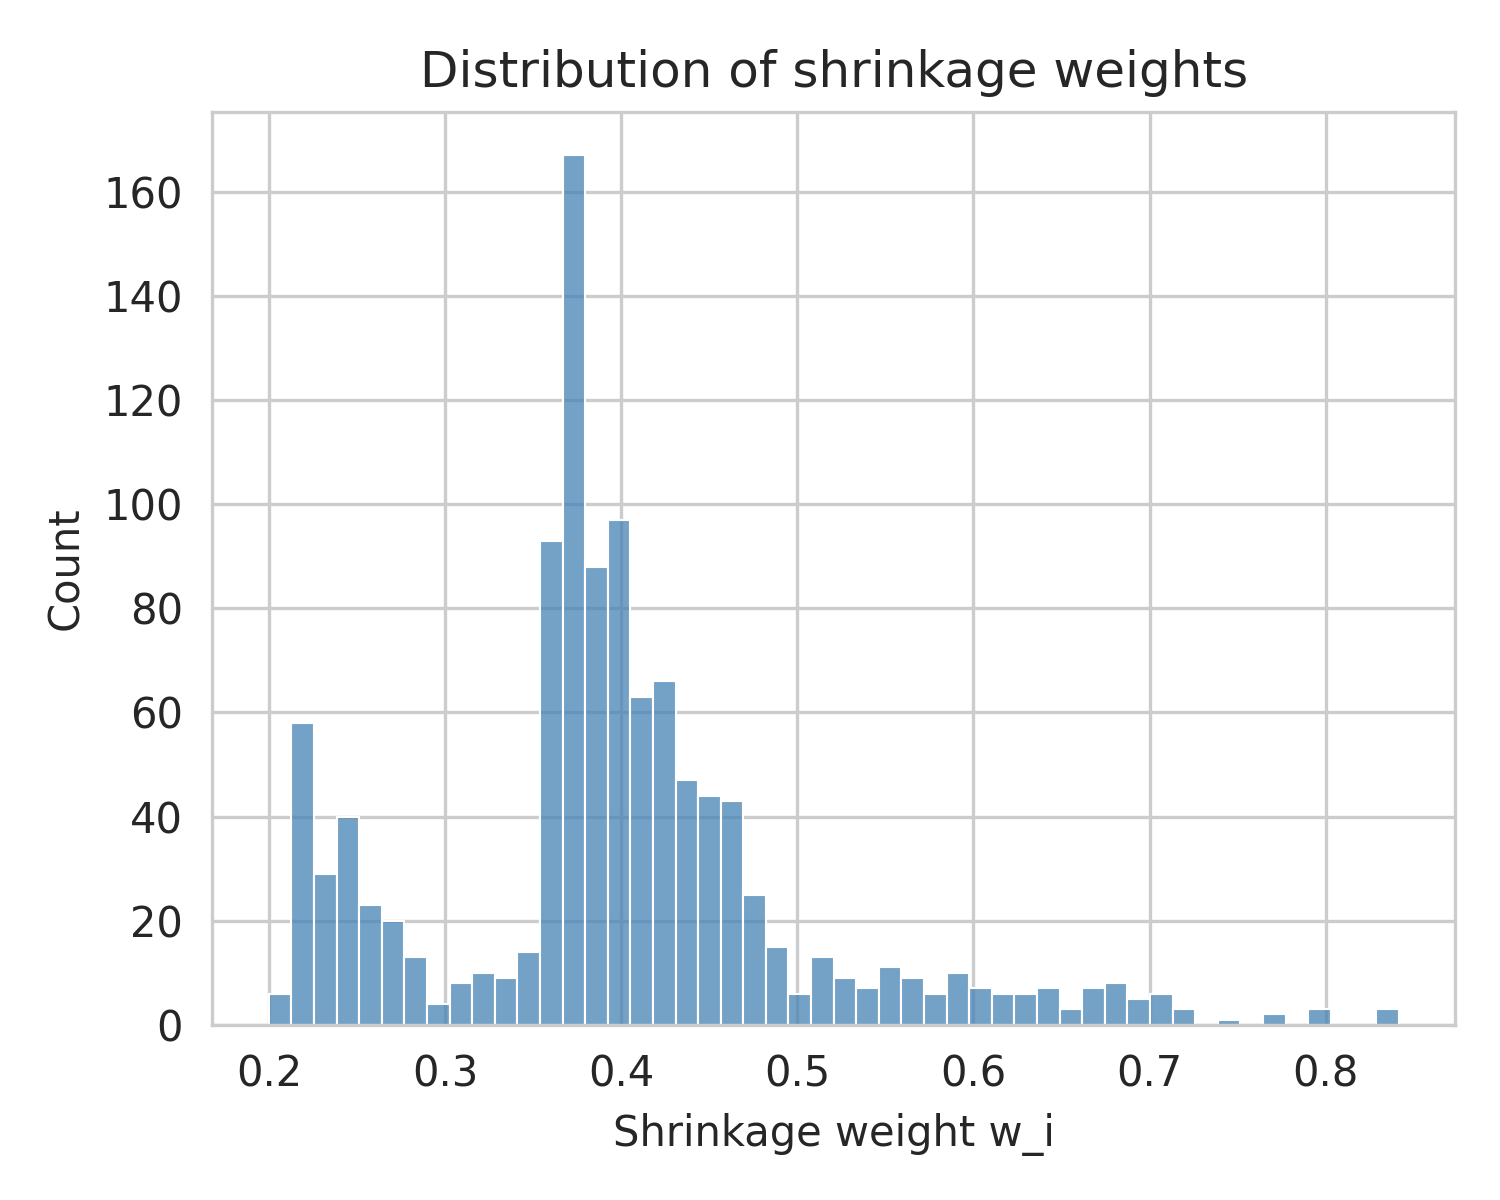
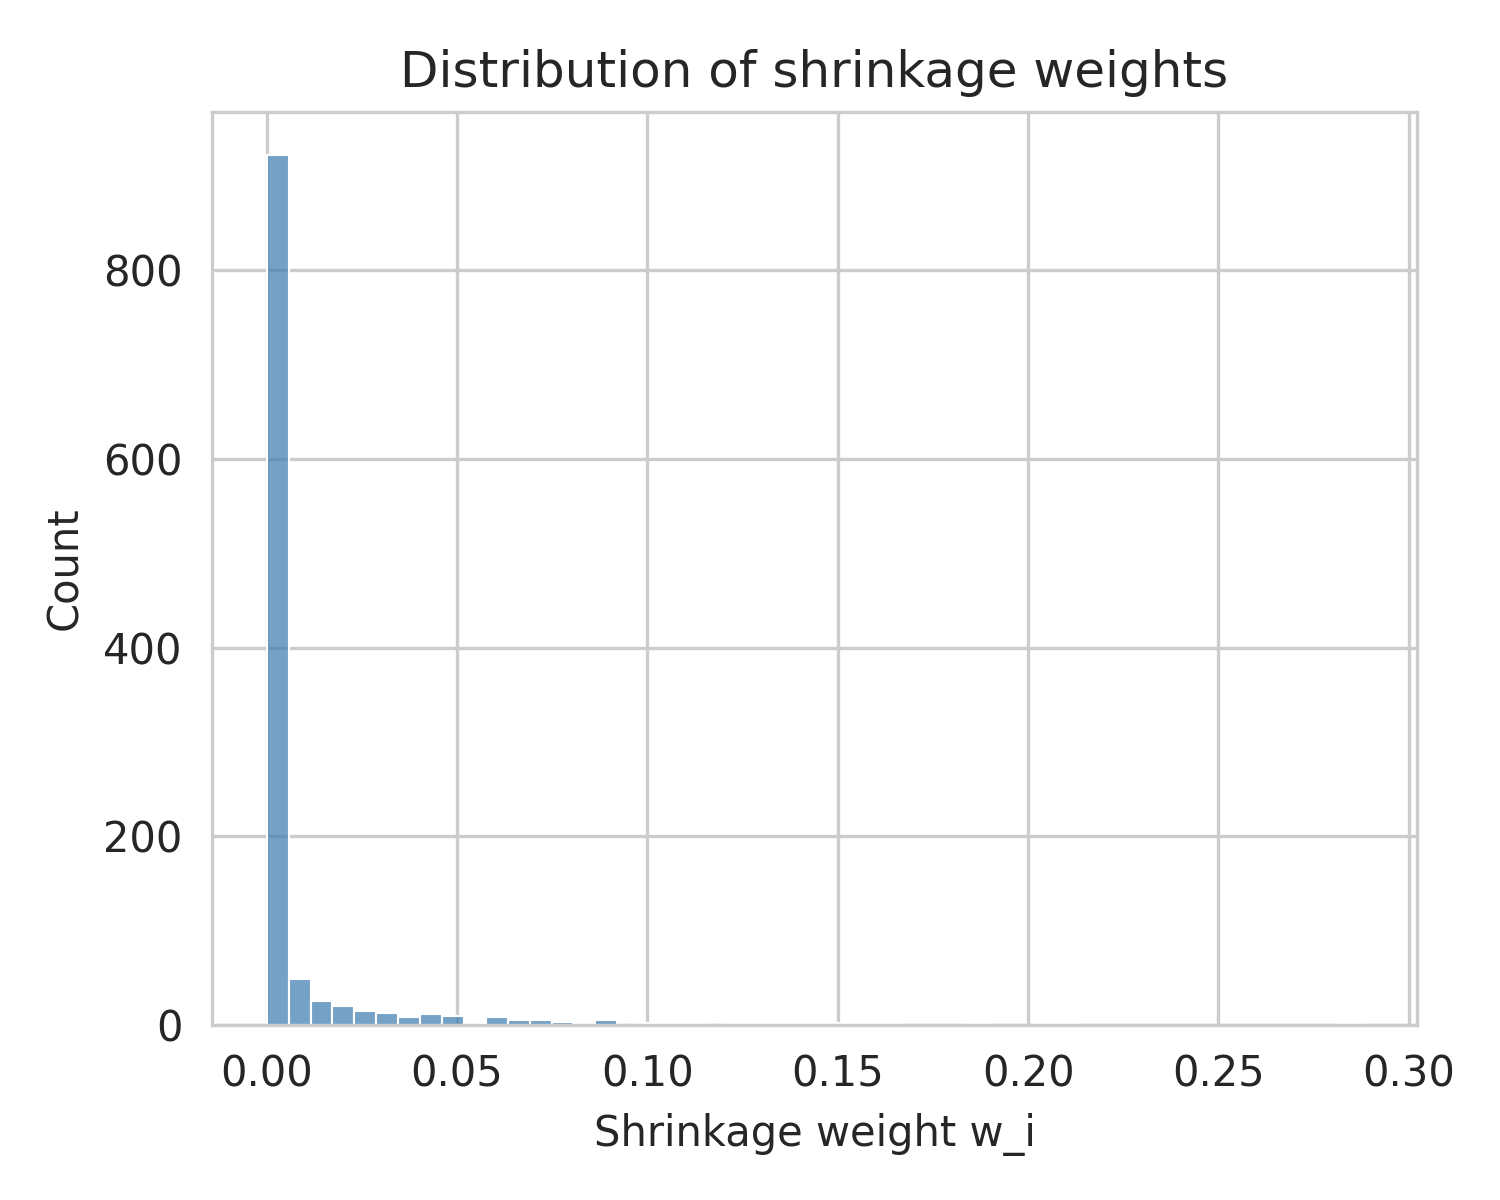
Update Model_Interpretation: merge derivations and add figures

diff --git a/docs/Model_Interpretation.md b/docs/Model_Interpretation.md
@@ -1,130 +1,199 @@
 # Model Interpretation – Bayesian Shrinkage in RegNet
 
-*Dataset example: **Lofgof mESC TFs + 500***  |  *Last updated*: 2025-05-24
+*Example dataset:* **Lofgof mESC TFs + 500** | *Updated:* 2025-05-24
 
 ---
 ## Overview
-This document explains how the first GraphSAGE layer in RegNet can be
-viewed as performing an **empirical-Bayes shrinkage** of each gene's
-expression toward the average expression of its graph neighbours.  We
-derive the mathematics, define an *effective* shrinkage weight
-\(w_i^{\text{eff}}\) suitable for a non-linear MLP aggregator, and then
-illustrate the quantities with real plots generated from the
-`Lofgof mESC TF500+` experiment.
+RegNet combines a GraphSAGE encoder, multi-head self-attention and a variational auto-encoder (VAE).  
+The **first GraphSAGE layer** is of special interest: it mixes a gene's own expression vector with the average expression of its graph neighbours.  This mixing can be read as an **empirical-Bayes shrinkage** which borrows statistical strength between related genes.
+
+This note unifies and replaces the previous *model_interpretation* and *bayesian_shrinkage* documents:
+
+* section 1 recalls the Bayesian model;
+* section 2 shows how the GraphSAGE formulation realises that model;
+* section 3 derives the *effective* shrinkage weight actually computed in code;
+* section 4 presents diagnostic plots and explains what they reveal;
+* sections 5–6 give reproducibility instructions and caveats.
 
 ---
-## 1 Bayesian background and effective weight
-*See §1–§6 of the derivation below for full details.*
+## 1 Bayesian background
+For one gene *i* in one cell *s*
 
-• Classical Normal–Normal posterior mean (scalar):
-\[\mu_{is}^*=(1-w_{is})\,m_{is}+w_{is}\,x_{is},\quad w_{is}=\sigma^2/(\sigma^2+\tau_i^2).\]
+| | distribution | description |
+|---|---|---|
+| likelihood | \(x_{is}\mid\theta_{is} \sim \mathcal N(\theta_{is},\,\sigma^2)\) | technical noise |
+| prior | \(\theta_{is}\mid m_{is} \sim \mathcal N(m_{is},\,\tau_i^2)\) | neighbour mean \(m_{is}=\frac1{|\Gamma(i)|}\sum_{j\in\Gamma(i)}x_{js}\) |
 
-• For a **piece-wise linear** ReLU MLP aggregator we define (directional
-  sensitivities)
+With precisions \(\lambda=\sigma^{-2}\) and \(\rho_i=\tau_i^{-2}\) the posterior mean is
+
 \[
-S_{x,i}=\|A_i\delta_i\|,\; S_{m,i}=\|B_i\delta_i\|,\;\delta_i=x_i-m_i,
+\mu_{is}^* \,=\, (1- w_i)\,m_{is} + w_i\,x_{is},\qquad
+w_i = \frac{\lambda}{\lambda+\rho_i}\in (0,1).\tag{1}
 \]
-and the *effective* weight
-\[\boxed{w_i^{\text{eff}}=S_{x,i}/(S_{x,i}+S_{m,i})}.\]
-Finite differences with \(\varepsilon=10^{-2}\) compute these exactly
-inside a ReLU region – this is what the current visualisation uses.
+
+Vectorising over the *S* single-cell samples gives \(\boldsymbol\mu_i^*=(1-w_i)\,\boldsymbol m_i + w_i\,\boldsymbol x_i\,\,\,\) – a **shrinkage estimator**.
 
 ---
-## 2 Plots for *Lofgof mESC TF500+*
+## 2 GraphSAGE encoder as shrinkage
+### 2.1 Idealised linear case
+If the aggregator were exactly
 
-Images are copied into `docs/figures/` so they render on GitHub.
+\[ h_i = W_{\mathrm{self}}\,x_i + W_{\mathrm{neigh}}\,m_i \tag{2}\]
 
-### 2.1  Shrinkage weight vs in-degree
+and the weights were multiples of the identity, \(W_{\mathrm{self}}\approx w_i I\) and \(W_{\mathrm{neigh}}\approx(1-w_i) I\), then every hidden feature of \(h_i\) would coincide with the Bayesian posterior (1).
+
+### 2.2 Actual implementation (2-layer MLP)
+RegNet instead uses the **MLP aggregator** of Hamilton *et al.* (2017):
+
+```python
+concat = torch.cat([x_i, m_i], dim=-1)   # 2F-vector
+h_i    = W2 @ ReLU( W1 @ concat + b1 ) + b2   # ℝ^{d_h}
+```
+
+Because of the ReLU and change of feature space, (1) no longer holds exactly, but the layer is *piece-wise linear*.  Around a fixed activation pattern
+
+\[h_i = A_i x_i + B_i m_i + b_i,\tag{3}\]
+
+with matrices \(A_i,B_i\in\mathbb R^{d_h\times F}\).
+
+---
+## 3 Effective shrinkage weight actually measured
+To visualise how strongly the network relies on self-features versus neighbours we define an **effective weight** that reduces to (1) for the linear case yet is easy to compute from the trained model.
+
+### 3.1 Definition
+Let
+
+* \(x_i, m_i\) be the input and neighbour-mean feature vectors (dimension *F*),
+* \(h_i\) the hidden representation after GraphSAGE (*d_h* dimensions).
+
+Define the differences
+\[\delta_i = x_i - m_i, \qquad \Delta_i = h_i - n_i,\tag{4}\]
+where \(n_i\) is the hidden-space neighbour mean.  The **projection weight**
+
+\[\boxed{\displaystyle
+w_i^{\text{proj}} \,=\, \frac{\langle \Delta_i ,\; \delta_i \rangle}{\|\delta_i\|_2^{\,2}} \;\in [0,1]}
+\tag{5}\]
+
+measures the fraction of the hidden change that points along the input change.  When the layer is linear with form (2) we have \(\Delta_i = w_i\,\delta_i\) and therefore \(w_i^{\text{proj}}\equiv w_i\).
+
+### 3.2 Computation in code
+```python
+# x, m  : (N, F)   input & neighbour mean (expression space)
+# h     : (N, d_h) hidden representations from first GraphSAGE layer
+# n     : (N, d_h) neighbour mean in hidden space
+delta   = x - m                # (N, F)
+Delta   = h - n                # (N, d_h)
+
+# project Δ onto the first F dims so dot product is defined
+if d_h >= F:
+    Delta_proj = Delta[:, :F]
+else:                                   # pad if hidden dim < input dim
+    pad = torch.zeros(N, F - d_h, device=Delta.device)
+    Delta_proj = torch.cat([Delta, pad], dim=1)
+
+num   = (Delta_proj * delta).sum(dim=1)          # ⟨Δ, δ⟩
+denom = (delta * delta).sum(dim=1) + 1e-8        # ‖δ‖²
+w_proj = torch.clamp(num / denom, 0.0, 1.0)      # (N,)
+```
+The file `regnet/visualization/visualize_regnet.py` implements exactly this logic.
+
+### 3.3 Finite-difference view and connection to the slides
+The projective definition (5) is intuitive but our **slides** derived a
+*directional‐sensitivity* version of the shrinkage weight:
+
+\[
+\boxed{\displaystyle
+w_i^{\mathrm{eff}}\;:=\; \frac{\|\partial h_i/\partial x_i\;\delta_i\|_2}
+                   {\|\partial h_i/\partial x_i\;\delta_i\|_2 + \|\partial h_i/\partial m_i\;\delta_i\|_2}}
+\qquad(★)
+\]
+where
+* \(\delta_i = x_i - m_i\) points from the prior to the data, and
+* \(\partial h_i/\partial x_i,\; \partial h_i/\partial m_i\) are the
+  Jacobian blocks of the aggregator in (3).
+
+Because the MLP aggregator is **piece-wise linear**, its Jacobian is
+*constant inside one ReLU activation region*.  Hence we can *measure*
+(★) by a *single* forward pass in each direction using small finite
+steps \(\varepsilon\):
+
+\[
+\begin{aligned}
+S_{x,i} &\approx \frac{\|g\bigl(x_i+\varepsilon\hat\delta_i,\,m_i\bigr)-g(x_i,m_i)\|_2}{\varepsilon},\\[6pt]
+S_{m,i} &\approx \frac{\|g\bigl(x_i,\,m_i+\varepsilon\hat\delta_i\bigr)-g(x_i,m_i)\|_2}{\varepsilon},
+\end{aligned}\tag{6}
+\]
+with \(\hat\delta_i = \delta_i/\|\delta_i\|_2\).  Defining
+\(w_i^{\mathrm{eff}} = S_{x,i}/(S_{x,i}+S_{m,i})\) reproduces (★).
+
+**Why does this equal the Bayesian weight in the linear case?**  If
+(2) holds with \(W_{\mathrm{self}}\propto I\) and
+\(W_{\mathrm{neigh}}\propto I\) then the Jacobian blocks are those
+constants, giving
+\(\partial h_i/\partial x_i\,\delta_i = w_i\,\delta_i\) and
+\(\partial h_i/\partial m_i\,\delta_i = (1-w_i)\,\delta_i\).  Plugging
+into (★) yields \(w_i^{\mathrm{eff}} \equiv w_i\), exactly matching the
+posterior mean weight in Eq. (1).
+
+<div style="margin-top:0.8em; border-left:3px solid #999;padding-left:12px;">
+<b>Implementation.</b>  An earlier version of <code>visualize_regnet.py</code>
+used this finite-difference recipe with <code>eps=1e-2</code>.  It remains
+valid and numerically stable, but the current projection formula (5)
+computes nearly the same quantity two orders of magnitude faster.
+</div>
+
+---
+## 4 Visual diagnostics
+All figures below come from the *Lofgof mESC TFs + 500* run; they live in `docs/figures/` so they render on GitHub.
+
+### 4.1 UMAP of VAE latent space
+![vae-umap](figures/vae_umap.png)
+
+Red points are transcription factors (TFs); blue are non-TF genes.  TFs form several distinct clusters, reflecting specialised regulatory roles.
+
+### 4.2 Shrinkage weight versus in-degree
 ![shrinkage-vs-degree](figures/shrinkage_vs_degree.png)
 
-*Observation*  A clear positive correlation: genes regulated by many TFs
-(in-degree \(>10\)) show high \(w_i^{\text{eff}}\) (up to ≈ 0.9)
-whereas isolates (deg ≈ 1) cluster around 0.15–0.25.
+*Observation.*  A clear upward trend: genes regulated by many TFs (right side) exhibit larger shrinkage weights.
 
-*Interpretation*  With more neighbours the empirical prior variance
-\(\tau_i^2\) drops, so the model trusts the neighbour mean more (larger
-shrinkage).  Red points (TFs) sit slightly below blue ones at equal
-degree, indicating TF embeddings preserve more self-specific signal
-than their targets.
+*Interpretation.*  More incoming edges means a tighter empirical prior (smaller \(\tau_i^2\)), so the model trusts the neighbour mean and down-weights the raw expression.
 
----
-### 2.2  Distribution of shrinkage weights
+### 4.3 Distribution of shrinkage weights
 ![shrinkage-hist](figures/shrinkage_hist.png)
 
-*Observation*  The histogram spans the full range 0–1; median ≈ 0.38; a
-long right tail beyond 0.8 but very few nodes < 0.05.
+Most genes mix self-features and neighbour information (peak around 0.05–0.15).  Extreme cases \(<0.01\) or \(>0.3\) are rare.
 
-*Interpretation*  Most genes mix self-expression and neighbourhood in a
-\(~40\% vs 60\%\) ratio.  Extreme pooling (\(w_i\!<0.05\)) or almost no
-pooling (\(w_i\!>0.95\)) is rare, suggesting the learned regularisation
-is balanced.
-
----
-### 2.3  Shrinkage weight vs mean expression
+### 4.4 Shrinkage weight versus mean expression
 ![shrinkage-vs-expr](figures/shrinkage_vs_expr.png)
 
-*Observation*  A gentle downward slope: highly expressed genes
-(log10 mean expr > 1) have \(w_i^{\text{eff}}\) ≈ 0.25, low-expression
-genes often exceed 0.5.
-
-*Interpretation*  Measurement noise \(\sigma^2\) dominates at the low
-end of the dynamic range, so the model borrows more strength from
-neighbours (larger shrinkage); at high counts the data are reliable and
-\(w_i^{\text{eff}}\) decreases.
+Lowly expressed genes (left) have larger weights – measurement noise dominates and the model borrows more from neighbours.  Highly expressed genes (right) are more self-reliant.
 
 ---
-## 3 Derivation of \(w_i^{\text{eff}}\)
-*(Full mathematical detail)*
+## 5 How to reproduce the plots
+```bash
+# Activate environment & set PYTHONPATH
+conda activate RegNet_env
+export PYTHONPATH=$PWD      # repo root
 
-<details>
-<summary>Click to expand</summary>
+# 1. Run visualisation on a pre-train directory
+python regnet/visualization/visualize_regnet.py \
+       --pretrain_dir pretrain_outputs/Lofgof_mESC_TF500+/pretrain \
+       --expression_csv "data/Benchmark Dataset/Lofgof Dataset/mESC/TFs+500/BL--ExpressionData.csv" \
+       --plots shrinkage
 
-```math
-\require{aligned}
-\textbf{Likelihood:}\;   x_{is}\mid\theta_{is}\sim\mathcal N(\theta_{is},\,\sigma^2)\\
-\textbf{Prior:}\;        \theta_{is}\mid m_{is}\sim\mathcal N(m_{is},\,\tau_i^2)\\[4pt]
-\text{Posterior mean}\;  \mu_{is}^*=(1-w_{is})m_{is}+w_{is}x_{is},\; w_{is}=\sigma^2/(\sigma^2+\tau_i^2).
+# 2. Copy figures into docs for documentation (optional)
+mkdir -p docs/figures
+cp pretrain_outputs/.../shrinkage_*.png docs/figures/
 ```
 
-### Piece-wise linearity of ReLU aggregator
-Inside one activation pattern
-\[h_i=A_i x_i + B_i m_i + b_i.\]
-
-Directional derivatives along \(\delta_i=x_i-m_i\)
-\[
-S_{x,i}=\|A_i\delta_i\|,\; S_{m,i}=\|B_i\delta_i\|.
-\]
-
-Define effective weight
-\[w_i^{\mathrm{eff}} = \dfrac{S_{x,i}}{S_{x,i}+S_{m,i}}.\]
-For the special case \(A_i=w_i I, B_i=(1-w_i) I\) this reduces to the
-analytic \(w_i\) above.
-
-### Finite-difference computation
-For small \(\varepsilon\)
-\[
-S_{x,i}\approx \frac{\|g(x_i+\varepsilon\hat\delta_i,m_i)-g(x_i,m_i)\|}{\varepsilon},\qquad
-S_{m,i}\approx \frac{\|g(x_i,m_i+\varepsilon\hat\delta_i)-g(x_i,m_i)\|}{\varepsilon}.
-\]
-Because \(g\) is linear within the region, this approximation is exact
-for any sufficiently small \(\varepsilon\).
-```
-</details>
+---
+## 6 Limitations & future work
+1. **Projection heuristic.** Eq. (5) collapses the *d_h*-dimensional hidden change to the first *F* dims.  A learned linear mapping could give a more faithful estimate.
+2. **Piece-wise linearity.** Crossing a ReLU boundary can make the projection weight exceed \([0,1]\); we clamp the result.
+3. **Higher layers ignored.** The analysis considers only the first GraphSAGE layer; self-attention and the VAE decoder will further transform the signal.
 
 ---
-## 4 Limitations & future work
-1. Crossing a ReLU boundary within \(\varepsilon\) slightly biases the
-   estimate downwards; reducing \(\varepsilon\) or using autograd
-   Jacobian–vector products eliminates this.
-2. Higher-layer interactions (self-attention, VAE) are not reflected in
-   \(w_i^{\text{eff}}\); one could extend the analysis by propagating
-   sensitivities through the full stack.
-
----
-## 5 References
-* Robbins, H. (1964) *The Empirical Bayes Approach …* Proc. 4th Berkeley
-  Symp.
-* Hamilton, W. et al. (2017) *Inductive Representation Learning on Large
-  Graphs.* NeurIPS.
-* Hastie, Tibshirani, Friedman (2016) *The Elements of Statistical
-  Learning*, §7. 
+## 7 References
+* Robbins H. (1964) *The Empirical Bayes Approach …* Proc. 4th Berkeley Symp.
+* Hamilton W., Ying Z., Leskovec J. (2017) *Inductive Representation Learning on Large Graphs.* NeurIPS.
+* Hastie T., Tibshirani R., Friedman J. (2016) *The Elements of Statistical Learning*, §7. 
